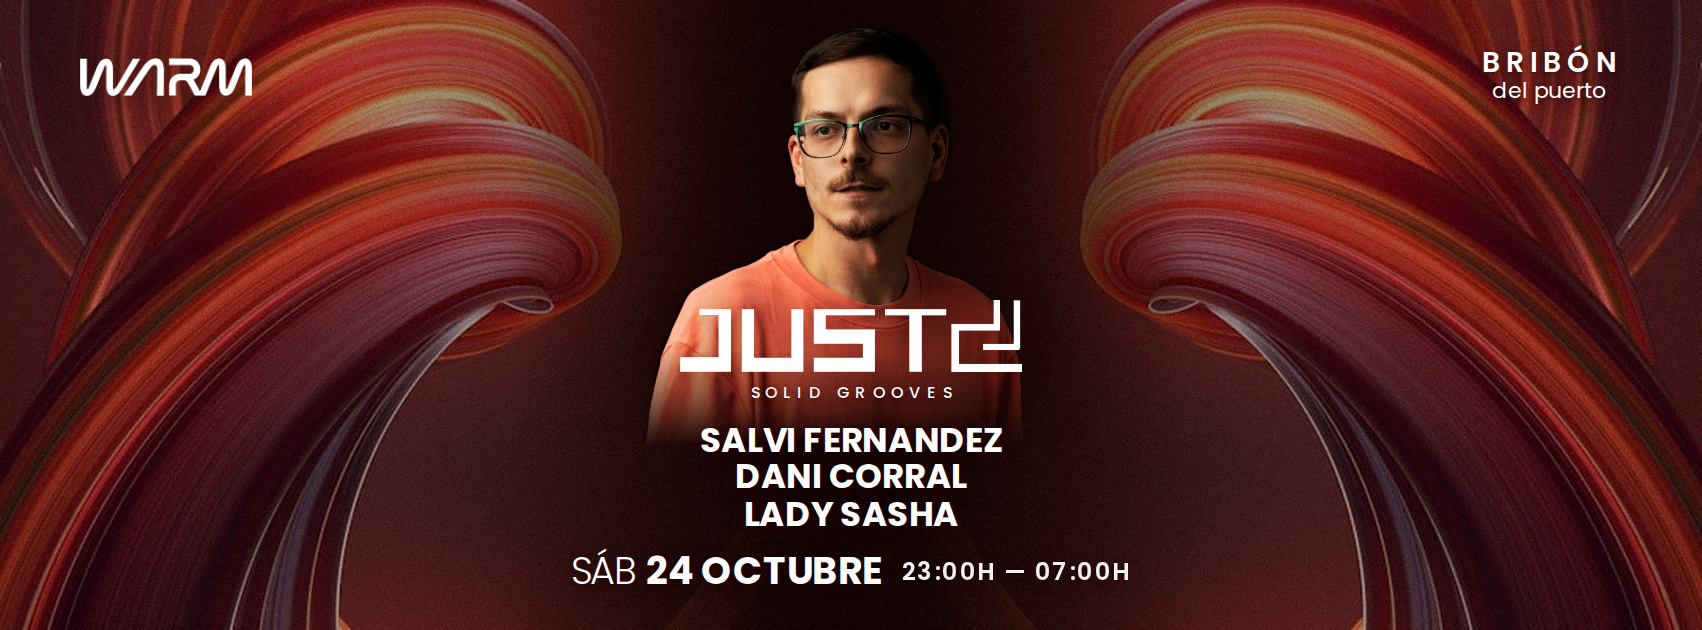
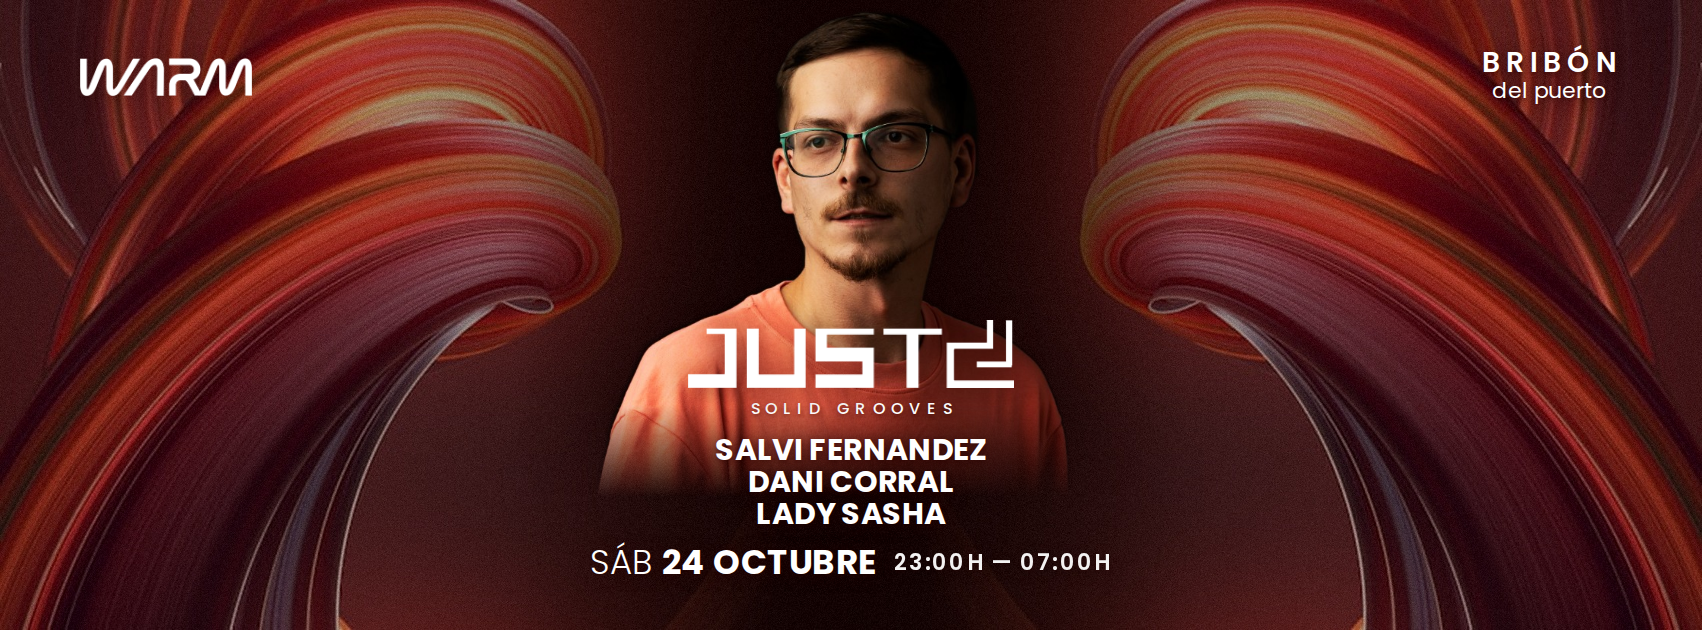
WARM 24.10 — copertă FB 851×315: poza artistului mărită
Claude-Session: https://claude.ai/code/session_01PsYJ7xTqRMzxVLnVuQx1Lt

Changed region(s): [[0.3425, 0.0302, 0.6539, 0.8444], [0.3425, 0.8746, 0.6539, 0.9349]]

diff --git a/warm_24oct/cover_851.html b/warm_24oct/cover_851.html
@@ -3,8 +3,8 @@
 <style>
 *{margin:0;padding:0;box-sizing:border-box}
 body{width:851px;height:315px;overflow:hidden;background:#200606 url(bg_swirl_851.jpg) 0 0/851px 315px no-repeat;font-family:'Poppins',sans-serif;color:#fff;text-transform:uppercase}
-.photo{position:absolute;left:229px;top:-47px;width:400px;height:600px;background:url(photos/just2_cutout.png) 0 0/100% 100% no-repeat;
- -webkit-mask-image:linear-gradient(180deg,#000 0%,#000 37%,rgba(0,0,0,0) 45%);filter:drop-shadow(0 0 18px rgba(20,0,0,.55))}
+.photo{position:absolute;left:177px;top:-71px;width:507px;height:760px;background:url(photos/just2_cutout.png) 0 0/100% 100% no-repeat;
+ -webkit-mask-image:linear-gradient(180deg,#000 0%,#000 36%,rgba(0,0,0,0) 42%);filter:drop-shadow(0 0 18px rgba(20,0,0,.55))}
 .sh{text-shadow:0 1px 8px rgba(40,5,0,.65),0 1px 2px rgba(40,5,0,.4)}
 img.sh{filter:drop-shadow(0 1px 7px rgba(40,5,0,.5))}
 .warm{position:absolute;top:29px;left:40px;width:86px}
@@ -12,13 +12,13 @@ img.sh{filter:drop-shadow(0 1px 7px rgba(40,5,0,.5))}
 .tr b{display:block;font-weight:600;font-size:14px;letter-spacing:.2em;padding-left:.2em}
 .tr i{display:block;font-style:normal;font-weight:400;font-size:11px;text-transform:none;margin-top:2px}
 .tr small{display:block;font-weight:500;font-size:8px;letter-spacing:.14em;margin-top:6px;opacity:.9}
-.c{position:absolute;left:0;right:0;top:150px;display:flex;flex-direction:column;align-items:center;text-align:center}
-.j2{height:36px}
-.label{font-weight:500;font-size:8px;letter-spacing:.38em;padding-left:.38em;margin:5px 0 8px}
-.n{font-weight:700;font-size:17px;line-height:1.08;letter-spacing:-.01em}
-.date{font-weight:700;font-size:19px;line-height:1;margin-top:10px;letter-spacing:-.005em}
+.c{position:absolute;left:0;right:0;top:160px;display:flex;flex-direction:column;align-items:center;text-align:center}
+.j2{height:34px}
+.label{font-weight:500;font-size:8px;letter-spacing:.38em;padding-left:.38em;margin:5px 0 6px}
+.n{font-weight:700;font-size:15px;line-height:1.06;letter-spacing:-.01em}
+.date{font-weight:700;font-size:17px;line-height:1;margin-top:8px;letter-spacing:-.005em}
 .date span{font-weight:300}
-.date em{font-style:normal;font-weight:600;font-size:12px;letter-spacing:.06em;opacity:.95;margin-left:10px;vertical-align:2px}
+.date em{font-style:normal;font-weight:600;font-size:11px;letter-spacing:.06em;opacity:.95;margin-left:9px;vertical-align:2px}
 </style></head><body>
 <div class="photo"></div>
 <img class="warm sh" src="logos/warm_white.png">
